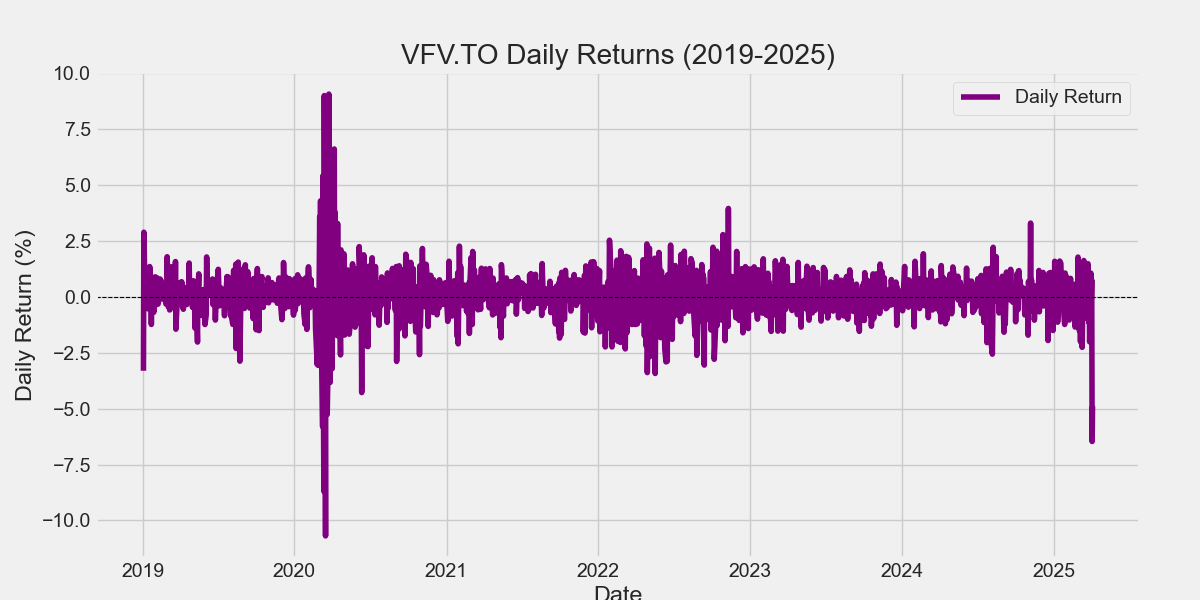
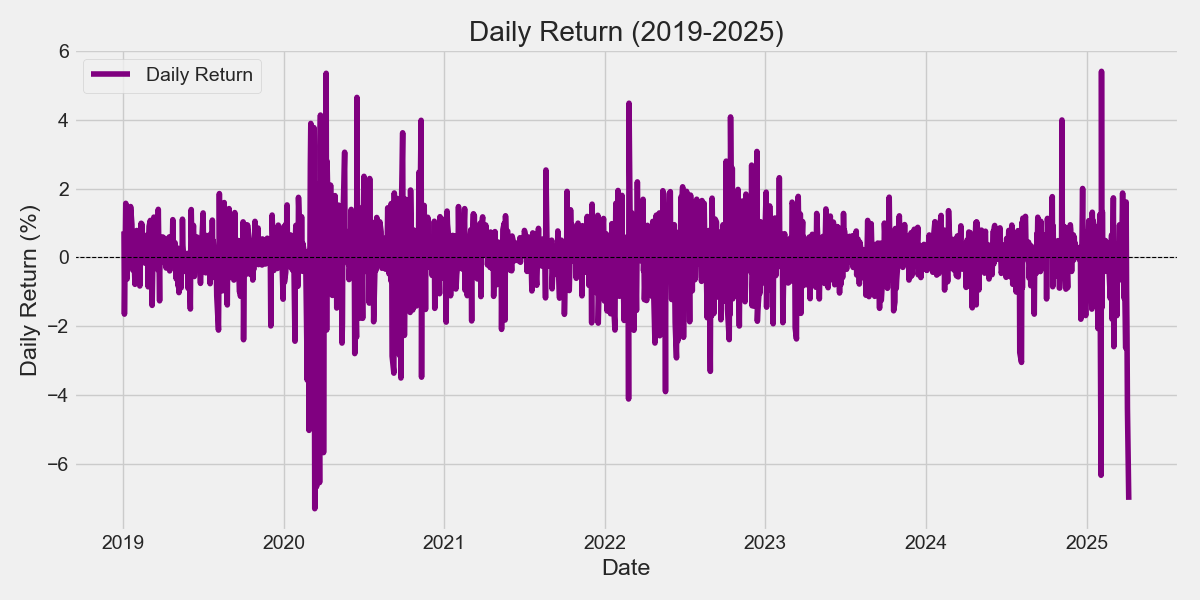
basic graphs

diff --git a/VFV.TO_plots.py b/VFV.TO_plots.py
@@ -1,74 +1,101 @@
-import yfinance as yf
+import os
 import pandas as pd
 import matplotlib.pyplot as plt
 import seaborn as sns
-from datetime import datetime
 
 # Set plot styles
 sns.set_style('whitegrid')
 plt.style.use("fivethirtyeight")
 
-# Define the stock ticker
-ticker = "VFV.TO"
+# Ensure the "Graphs" directory exists
+os.makedirs("Graphs", exist_ok=True)
 
-# Set up start and end dates
-start_date = "2019-01-01"
-end_date = datetime.today().strftime('%Y-%m-%d')
+# Path to the local CSV file
+csv_path = "data.csv"
 
-# Fetch stock data
-data = yf.download(ticker, start=start_date, end=end_date, progress=False, ignore_tz=True)
+# Read the CSV file:
+data = pd.read_csv(csv_path, skiprows=1, header=0, parse_dates=False)
+print("Raw available columns:", data.columns.tolist())
 
-# Check if data is available
-if data.empty:
-    print(f"❌ No data found for {ticker}. Check if the market was open.")
-else:
-    # Print available columns to check what data is available
-    print("Available columns:", data.columns)
+new_names = {
+    data.columns[0]: "Date",
+    data.columns[1]: "Open",
+    data.columns[2]: "High",
+    data.columns[3]: "Low",
+    data.columns[4]: "Close"
+}
+data.rename(columns=new_names, inplace=True)
+print("Renamed columns:", data.columns.tolist())
 
-    # Check if 'Adj Close' exists; if not, use 'Close' instead
-    price_col = 'Adj Close' if 'Adj Close' in data.columns else 'Close'
-    
-    # Calculate key metrics
-    data["Daily Return"] = data[price_col].pct_change() * 100  # Daily return in %
-    data["50-day MA"] = data[price_col].rolling(window=50).mean()  # 50-day moving average
-    data["200-day MA"] = data[price_col].rolling(window=200).mean()  # 200-day moving average
-    data["Volatility"] = data["Daily Return"].rolling(window=30).std()  # 30-day rolling volatility
+# Convert the Date column to datetime.
+data["Date"] = pd.to_datetime(data["Date"], errors="coerce", format="%Y-%m-%d")
+if data["Date"].isnull().all():
+    raise ValueError("Date conversion failed for all rows. Check the CSV date format.")
 
-    # Show first few rows
-    print(data.head())
+# Set Date as the index.
+data.set_index("Date", inplace=True)
 
-    # Save to CSV (optional)
-    data.to_csv(f"{ticker}_2024_data.csv")
-    print(f"✅ Data saved as '{ticker}_2024_data.csv'.")
+# Optionally, filter data from 2019 onward.
+data = data[data.index >= pd.to_datetime("2019-01-01")]
 
-    # Plot the stock price trend
-    plt.figure(figsize=(12, 6))
-    plt.plot(data.index, data[price_col], label="Stock Price", linewidth=2)
-    plt.plot(data.index, data["50-day MA"], label="50-day Moving Average", linestyle="--")
-    plt.plot(data.index, data["200-day MA"], label="200-day Moving Average", linestyle="--")
-    plt.title(f"{ticker} Price Trend (2019-2025)")
-    plt.xlabel("Date")
-    plt.ylabel("Price (CAD)")
-    plt.legend()
-    plt.savefig("Stocks.png")
+# Use the 'Close' column for price calculations.
+price_col = "Close"
 
-    # Plot daily return
-    plt.figure(figsize=(12, 6))
-    plt.plot(data.index, data["Daily Return"], label="Daily Return", color="purple")
-    plt.axhline(0, color="black", linestyle="--", linewidth=0.8)
-    plt.title(f"{ticker} Daily Returns (2019-2025)")
-    plt.xlabel("Date")
-    plt.ylabel("Daily Return (%)")
-    plt.legend()
-    plt.savefig("Daily_Return.png")
-    plt.show()
+# Calculate Daily Return (in %)
+data["Daily Return"] = data[price_col].pct_change() * 100
 
-    # Plot volatility (rolling standard deviation of daily returns)
-    plt.figure(figsize=(12, 6))
-    plt.plot(data.index, data["Volatility"], label="30-day Rolling Volatility", color="red")
-    plt.title(f"{ticker} Volatility (2019-2025)")
-    plt.xlabel("Date")
-    plt.ylabel("Volatility (Std Dev of Daily Return)")
-    plt.legend()
-    plt.savefig("Volatility.png")
-    plt.show()
+# Calculate 50-day Moving Average
+data["50-day MA"] = data[price_col].rolling(window=50).mean()
+
+# Calculate 200-day Moving Average
+data["200-day MA"] = data[price_col].rolling(window=200).mean()
+
+# Calculate 30-day Rolling Volatility (std. dev. of Daily Return)
+data["Volatility"] = data["Daily Return"].rolling(window=30).std()
+
+# Print first few rows for verification.
+print(data.head())
+
+# -------------------------------
+# Plot 1: Price Trend
+# -------------------------------
+plt.figure(figsize=(12, 6))
+plt.plot(data.index, data[price_col], label="Stock Price", linewidth=2)
+plt.plot(data.index, data["50-day MA"], label="50-day MA", linestyle="--")
+plt.plot(data.index, data["200-day MA"], label="200-day MA", linestyle="--")
+plt.title("Stock Price Trend (2019-2025)")
+plt.xlabel("Date")
+plt.ylabel("Price (CAD)")
+plt.legend()
+plt.tight_layout()
+plt.savefig("Graphs/Stocks.png")
+plt.close()
+
+# -------------------------------
+# Plot 2: Daily Return
+# -------------------------------
+plt.figure(figsize=(12, 6))
+plt.plot(data.index, data["Daily Return"], label="Daily Return", color="purple")
+plt.axhline(0, color="black", linestyle="--", linewidth=0.8)
+plt.title("Daily Return (2019-2025)")
+plt.xlabel("Date")
+plt.ylabel("Daily Return (%)")
+plt.legend()
+plt.tight_layout()
+plt.savefig("Graphs/Daily_Return.png")
+plt.close()
+
+# -------------------------------
+# Plot 3: Volatility
+# -------------------------------
+plt.figure(figsize=(12, 6))
+plt.plot(data.index, data["Volatility"], label="30-day Rolling Volatility", color="red")
+plt.title("Volatility (2019-2025)")
+plt.xlabel("Date")
+plt.ylabel("Volatility (Std Dev of Daily Return)")
+plt.legend()
+plt.tight_layout()
+plt.savefig("Graphs/Volatility.png")
+plt.close()
+
+plt.show()
